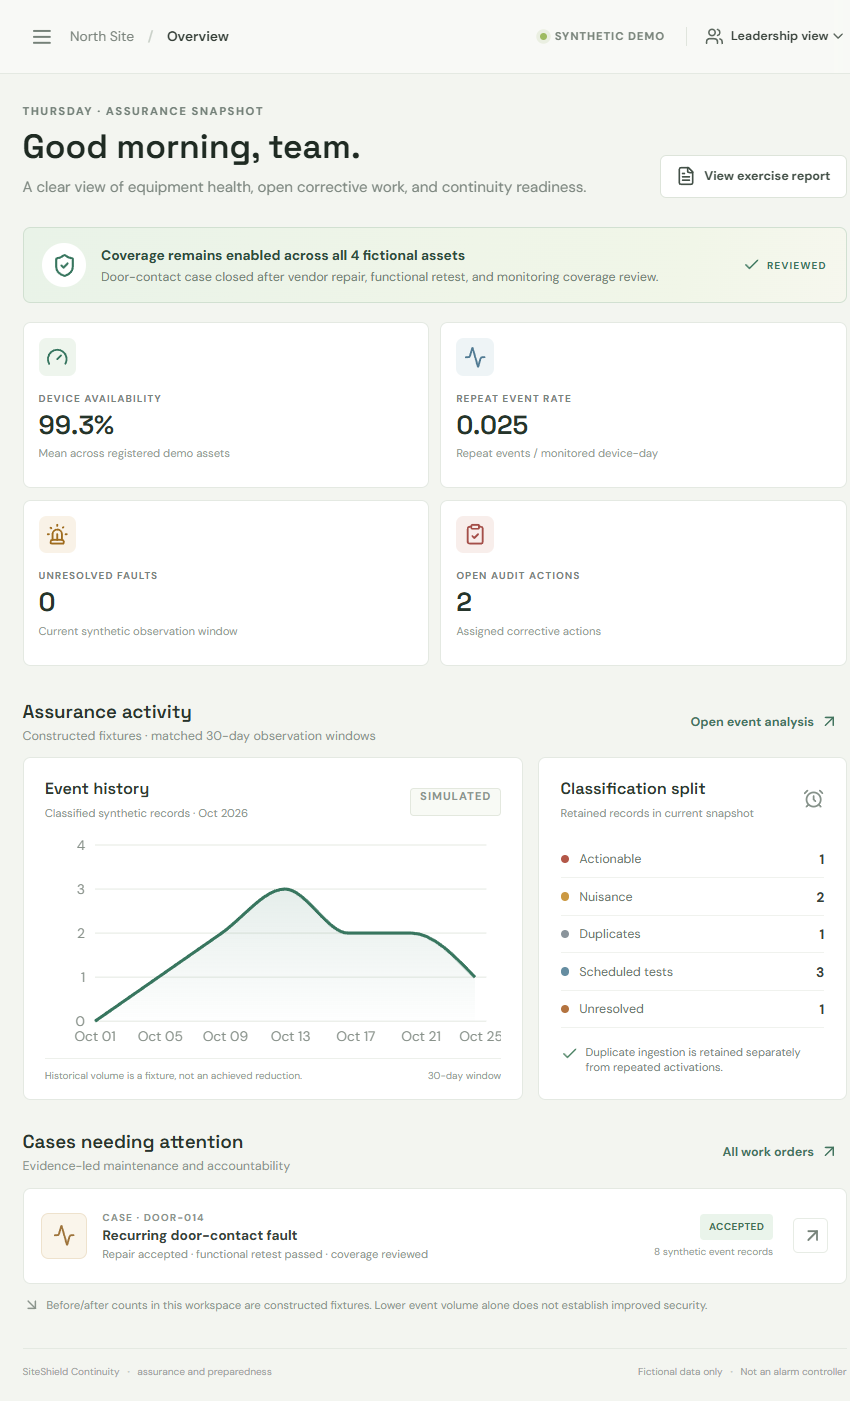
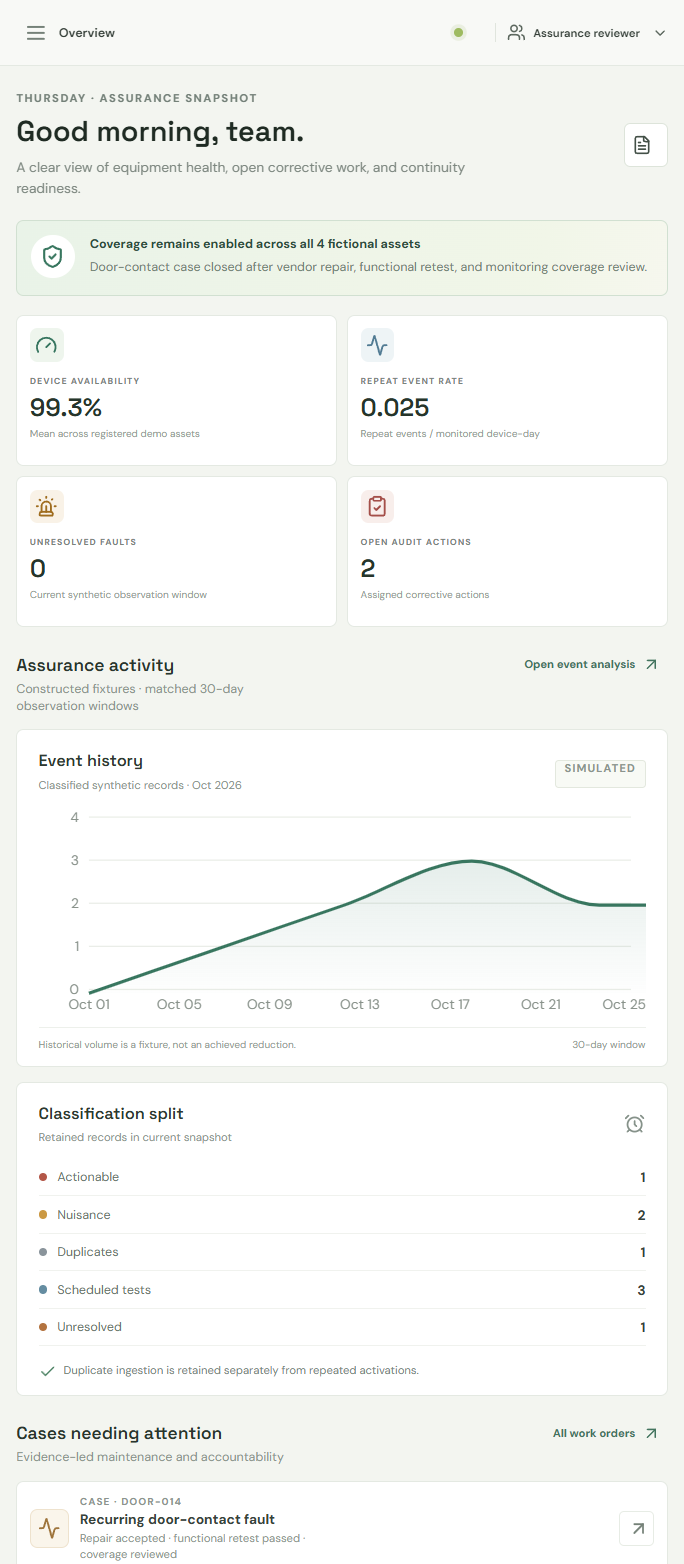
Refresh authenticated workspace screenshot

diff --git a/README.md b/README.md
@@ -82,7 +82,7 @@ Live frontend: https://siteshield-frontend-production.up.railway.app
 
 Live backend health: https://siteshield-backend-production.up.railway.app/health
 
-The services run in Railway's `us-west2` region. PostgreSQL was migrated through the backend pre-deploy release command, then populated only through the explicit synthetic seed profile. The local overview screenshot is included at `docs/siteshield-dashboard.png`; the seeded case and fixture files are the reproducible worked reports for this source delivery.
+The services run in Railway's `us-west2` region. PostgreSQL was migrated through the backend pre-deploy release command, then populated only through the explicit synthetic seed profile. An anonymized, authenticated reviewer overview from the live workspace is included at `docs/siteshield-dashboard.png`; the seeded case and fixture files are the reproducible worked reports for this source delivery.
 
 ## Project map
 
